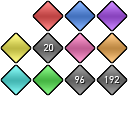
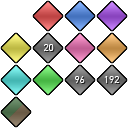
Custom Snap

Changed region(s): [[0.0, 0.75, 0.25, 1.0]]

diff --git a/src/Editor/view.cpp b/src/Editor/view.cpp
@@ -56,7 +56,7 @@ static const int sMiniScales[NUM_MINI_LEVELS] =
 
 static const int sRowSnapTypes[NUM_SNAP_TYPES] =
 {
-	1, 48, 24, 16, 12, 10, 8, 6, 4, 3, 2, 1
+	1, 48, 24, 16, 12, 10, 8, 6, 4, 3, 2, 1, 0
 };
 
 }; // anonymous namespace
@@ -78,6 +78,8 @@ bool myIsDraggingReceptors;
 bool myUseTimeBasedView;
 bool myUseReverseScroll;
 bool myUseChartPreview;
+int myCustomSnap;
+int myCustomSnapSteps[193];
 SnapType mySnapType;
 
 // ================================================================================================
@@ -97,6 +99,7 @@ ViewImpl()
 	, myZoomLevel(0)
 	, myMini(0)
 	, mySnapType(ST_NONE)
+	, myCustomSnap(1)
 	, myUseTimeBasedView(true)
 	, myUseReverseScroll(false)
 	, myUseChartPreview(true)
@@ -119,9 +122,13 @@ void loadSettings(XmrNode& settings)
 		view->get("useTimeBasedView", &myUseTimeBasedView);
 		view->get("useReverseScroll", &myUseReverseScroll);
 		view->get("useChartPreview" , &myUseChartPreview);
+		view->get("customSnap", &myCustomSnap);
+
+		myCustomSnap = min(max(myCustomSnap, 1), 192);
 	}
 
 	updateScrollValues();
+	updateCustomSnapSteps();
 }
 
 void saveSettings(XmrNode& settings)
@@ -130,6 +137,7 @@ void saveSettings(XmrNode& settings)
 	if(!view) view = settings.addChild("view");
 
 	view->addAttrib("useTimeBasedView", myUseTimeBasedView);
+	view->addAttrib("customSnap", (long)myCustomSnap);
 }
 
 // ================================================================================================
@@ -220,6 +228,11 @@ int getZoomLevel() const
 int getMiniLevel() const
 {
 	return myMini;
+}
+
+int getCustomSnap() const
+{
+	return myCustomSnap;
 }
 
 SnapType getSnapType() const
@@ -356,6 +369,15 @@ void updateScrollValues()
 	}
 }
 
+void updateCustomSnapSteps()
+{
+	double inc = 192.0 / myCustomSnap;
+	for (int i = 0; i <= myCustomSnap; ++i)
+	{
+		myCustomSnapSteps[i] = static_cast<int>(round(inc * i));
+	}
+}
+
 void toggleReverseScroll()
 {
 	myUseReverseScroll = !myUseReverseScroll;
@@ -405,6 +427,18 @@ void setSnapType(int type)
 	{
 		mySnapType = (SnapType)type;
 		HudNote("Snap: %s", ToString(mySnapType));
+	}
+}
+
+void setCustomSnap(int size)
+{
+	if (size < 1) size = 1;
+	if (size > 192) size = 192;
+	if (myCustomSnap != size)
+	{
+		myCustomSnap = size;
+		updateCustomSnapSteps();
+		HudNote("Custom Snap: %s", OrdinalSuffix(myCustomSnap));
 	}
 }
 
@@ -729,6 +763,33 @@ int snapRow(int row, SnapDir dir)
 			}
 			row = beat * 48 + beatrow;
 		}
+		// Special case, custom snapping.
+		else if (snap == 0)
+		{
+			int measure = row / 192, measurerow = row % 192;
+			if (dir == SNAP_UP)
+			{
+				for (int i = myCustomSnap; i >= 0; --i)
+				{
+					if (myCustomSnapSteps[i] <= measurerow)
+					{
+						measurerow = myCustomSnapSteps[i]; break;
+					}
+				}
+			}
+			else
+			{
+				for (int i = 0; i <= myCustomSnap; ++i)
+				{
+					if (myCustomSnapSteps[i] >= measurerow)
+					{
+						measurerow = myCustomSnapSteps[i]; break;
+					}
+				}
+
+			}
+			row = measure * 192 + measurerow;
+		}
 		else // Regular case, snap is divisible by 192.
 		{
 			if(row % snap && dir != SNAP_UP) row += snap;
@@ -748,6 +809,11 @@ bool isAlignedToSnap(int row)
 	{
 		int rows[5] = { 0, 10, 19, 29, 38 };
 		return std::find(rows, rows + 5, row % 48) != rows + 5;
+	}
+	// Special case, custom snapping.
+	else if (snap == 0)
+	{
+		return std::find(myCustomSnapSteps, myCustomSnapSteps + myCustomSnap, row % 192) != myCustomSnapSteps + myCustomSnap;
 	}
 
 	return (row % snap == 0);

diff --git a/src/Editor/common.cpp b/src/Editor/common.cpp
@@ -124,9 +124,35 @@ const char* ToString(SnapType st)
 {
 	static const char* text[NUM_SNAP_TYPES] =
 	{
-		"None", "4th", "8th", "12th", "16th", "20th", "24th", "32nd", "48th", "64th", "96th", "192nd"
+		"None", "4th", "8th", "12th", "16th", "20th", "24th", "32nd", "48th", "64th", "96th", "192nd", "Custom"
 	};
 	return (st >= 0 && st < NUM_SNAP_TYPES) ? text[st] : text[0];
+}
+
+const String OrdinalSuffix(int i)
+{
+	int j = i % 10, k = i % 100;
+
+	String out = Str::val(i, 0);
+
+	if (j == 1 && k != 11)
+	{
+		out += "st";
+	}
+	else if (j == 2 && k != 12)
+	{
+		out += "nd";
+	}
+	else if (j == 3 && k != 13)
+	{
+		out += "rd";
+	}
+	else
+	{
+		out += "th";
+	}
+
+	return out;
 }
 
 RowType ToRowType(int rowIndex)

diff --git a/src/Dialogs/CustomSnap.cpp b/src/Dialogs/CustomSnap.cpp
@@ -1,0 +1,39 @@
+#include <Dialogs/CustomSnap.h>
+
+#include <Core/Draw.h>
+#include <Core/WidgetsLayout.h>
+
+#include <Editor/View.h>
+
+#define Dlg DialogCustomSnap
+
+namespace Vortex {
+
+	Dlg::~Dlg()
+	{
+	}
+
+	Dlg::Dlg()
+	{
+		myCustomSnap = gView->getCustomSnap();
+
+		setTitle("CUSTOM SNAP");
+		myCreateWidgets();
+	}
+
+	void Dlg::myCreateWidgets()
+	{
+		myLayout.row().col(80).col(80);
+
+		WgSpinner* scol = myLayout.add<WgSpinner>("Snapping");
+		scol->value.bind(&myCustomSnap);
+		scol->onChange.bind(this, &Dlg::onChange);
+		scol->setRange(1.0, 192.0);
+		scol->setPrecision(0, 0);
+	}
+
+	void Dlg::onChange()
+	{
+		gView->setCustomSnap(myCustomSnap);
+	}
+}; // namespace Vortex

diff --git a/src/Editor/Menubar.cpp b/src/Editor/Menubar.cpp
@@ -338,6 +338,7 @@ void init(Item* menu)
 	add(myViewMenu, USE_ROW_BASED_VIEW, "Row based (X-mod)");
 	sep(myViewMenu);
 	add(myViewMenu, OPEN_DIALOG_WAVEFORM_SETTINGS, "Waveform...");
+	add(myViewMenu, OPEN_DIALOG_CUSTOM_SNAP, "Snapping...");
 	add(myViewMenu, 0 /*dummy*/, "Noteskins");
 	sub(myViewMenu, myMinimapMenu, "Minimap");
 	sub(myViewMenu, myBgStyleMenu, "Background");
@@ -476,7 +477,7 @@ void registerUpdateFunctions()
 				++numValid;
 			}
 		}
-		MENU->myViewMenu->replaceSubmenu(13, hSkins, "Noteskins", (numValid == 0));
+		MENU->myViewMenu->replaceSubmenu(14, hSkins, "Noteskins", (numValid == 0));
 	};
 	myUpdateFunctions[STATUSBAR_CHART] = []
 	{

diff --git a/src/Editor/view.h b/src/Editor/view.h
@@ -38,6 +38,7 @@ struct View
 	virtual void setCursorToSelection(bool top) = 0;
 
 	virtual void setSnapType(int type) = 0;
+	virtual void setCustomSnap(int snap) = 0;
 	virtual int  snapRow(int row, SnapDir direction) = 0;
 	virtual bool isAlignedToSnap(int row) = 0;
 
@@ -62,6 +63,7 @@ struct View
 	virtual double offsetToTime(ChartOffset ofs) const = 0;
 
 	virtual SnapType getSnapType() const = 0;
+	virtual int getCustomSnap() const = 0;
 	virtual bool isTimeBased() const = 0;
 	virtual bool hasReverseScroll() const = 0;
 	virtual bool hasChartPreview() const = 0;

diff --git a/src/Editor/notefield.cpp b/src/Editor/notefield.cpp
@@ -580,6 +580,23 @@ void drawSnapDiamonds()
 		mySnapIcons[snapType].draw(&batch, vx, myY);
 	}
 	batch.flush();
+
+	// Custom Snap
+	if (snapType == NUM_SNAP_TYPES - 1)
+	{
+		TextStyle textStyle;
+		textStyle.fontSize = 11;
+
+		String snap = Str::val(gView->getCustomSnap());
+
+		for (int i = 0; i < 2; ++i)
+		{
+			int vx = x[i] + gView->applyZoom(i * 40 - 20);
+
+			Text::arrange(Text::MC, textStyle, snap.str());
+			Text::draw(vec2i{ vx, myY - 1 });
+		}
+	}
 }
 
 void drawNotes()

diff --git a/src/Editor/Editor.cpp b/src/Editor/Editor.cpp
@@ -48,6 +48,7 @@
 #include <Dialogs/TempoBreakdown.h>
 #include <Dialogs/GenerateNotes.h>
 #include <Dialogs/WaveformSettings.h>
+#include <Dialogs/CustomSnap.h>
 
 namespace Vortex {
 
@@ -737,6 +738,8 @@ void handleDialogOpening(DialogId id, recti rect)
 		dlg = new DialogTempoBreakdown; break;
 	case DIALOG_WAVEFORM_SETTINGS:
 		dlg = new DialogWaveformSettings; break;
+	case DIALOG_CUSTOM_SNAP:
+		dlg = new DialogCustomSnap; break;
 	};
 
 	dlg->setId(id);

diff --git a/src/Editor/common.h b/src/Editor/common.h
@@ -116,6 +116,7 @@ enum SnapType
 	ST_64TH,
 	ST_96TH,
 	ST_192TH,
+	ST_CUSTOM,
 
 	NUM_SNAP_TYPES,
 };
@@ -139,6 +140,9 @@ Vector<uchar> GetClipboardData(StringRef tag);
 
 // Returns a text representation of the given snap type.
 const char* ToString(SnapType st);
+
+// Returns a number value with it's ordinal suffix.
+const String OrdinalSuffix(int i);
 
 // Returns the color representation of the given difficulty type.
 color32 ToColor(Difficulty dt);

diff --git a/src/Dialogs/CustomSnap.h b/src/Dialogs/CustomSnap.h
@@ -1,0 +1,24 @@
+#pragma once
+
+#include <Dialogs/Dialog.h>
+#include <Core/Widgets.h>
+#include <Core/WidgetsLayout.h>
+
+namespace Vortex {
+
+	class DialogCustomSnap : public EditorDialog, public InputHandler
+	{
+	public:
+		~DialogCustomSnap();
+		DialogCustomSnap();
+
+		void onChange();
+
+	private:
+		void myCreateWidgets();
+
+		int myCustomSnap;
+	};
+
+}; // namespace Vortex
+#pragma once

diff --git a/src/Editor/Action.cpp b/src/Editor/Action.cpp
@@ -69,6 +69,8 @@ void Action::perform(Type action)
 		gEditor->openDialog(DIALOG_TEMPO_BREAKDOWN);
 	CASE(OPEN_DIALOG_WAVEFORM_SETTINGS)
 		gEditor->openDialog(DIALOG_WAVEFORM_SETTINGS);
+	CASE(OPEN_DIALOG_CUSTOM_SNAP)
+		gEditor->openDialog(DIALOG_CUSTOM_SNAP);
 
 	CASE(EDIT_UNDO)
 		gSystem->getEvents().addKeyPress(Key::Z, Keyflag::CTRL, false);

diff --git a/src/Editor/Shortcuts.cpp b/src/Editor/Shortcuts.cpp
@@ -195,6 +195,7 @@ E(OPEN_DIALOG_DANCING_BOT)
 E(OPEN_DIALOG_GENERATE_NOTES)
 E(OPEN_DIALOG_TEMPO_BREAKDOWN)
 E(OPEN_DIALOG_WAVEFORM_SETTINGS)
+E(OPEN_DIALOG_CUSTOM_SNAP)
 
 E(SELECT_REGION)
 E(SELECT_REGION_BEFORE_CURSOR)

diff --git a/src/Editor/Action.h b/src/Editor/Action.h
@@ -40,6 +40,7 @@ namespace Action {
 	OPEN_DIALOG_GENERATE_NOTES,
 	OPEN_DIALOG_TEMPO_BREAKDOWN,
 	OPEN_DIALOG_WAVEFORM_SETTINGS,
+	OPEN_DIALOG_CUSTOM_SNAP,
 	
 	EDIT_UNDO,
 	EDIT_REDO,
